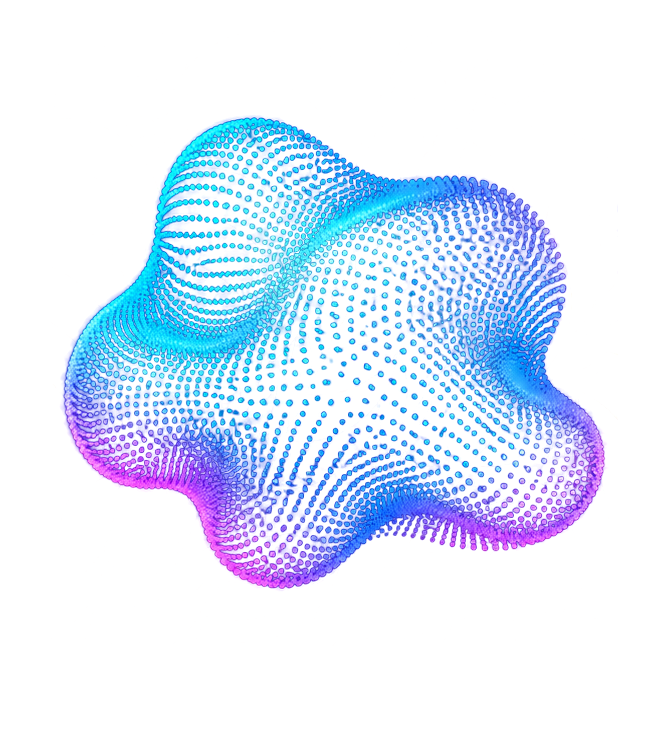
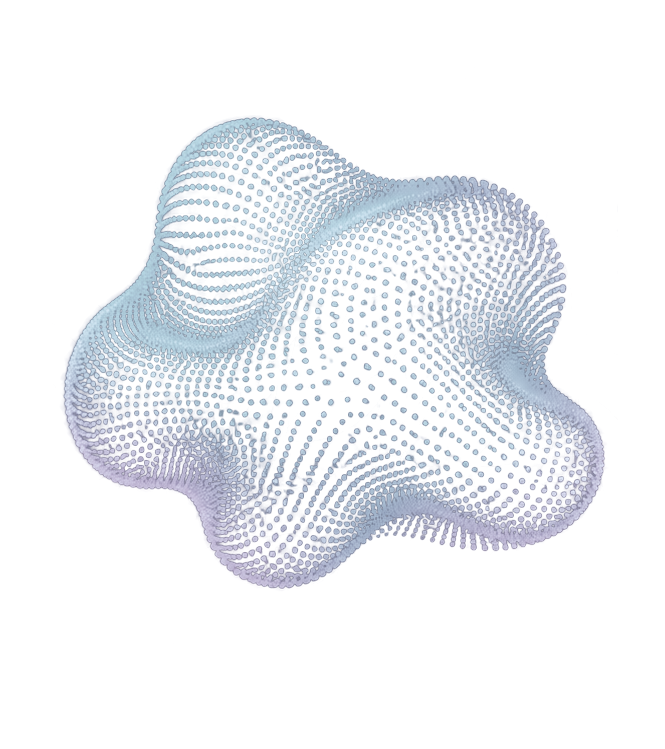
hide text hint after menu open

Changed region(s): [[0.0902, 0.1535, 0.9323, 0.7984]]

diff --git a/public/style.css b/public/style.css
@@ -94,10 +94,11 @@ button:focus-visible { outline: 2px solid var(--cyan); outline-offset: 4px; bord
   transition: opacity 400ms; animation: hint 3.2s ease-in-out infinite; }
 @keyframes hint { 0%, 100% { opacity: 0.5; } 50% { opacity: 0.95; } }
 #home:not([data-layer="0"]) .hint, #home.quiet .hint, #home.learned .hint { opacity: 0; animation: none; pointer-events: none; }
-/* the run buttons belong to home and layer 1; layers 2 and 3 hand the space to the menu */
-.run-buttons { transition: opacity 400ms var(--ease); }
-#home[data-layer="2"] .run-buttons, #home[data-layer="3"] .run-buttons { opacity: 0; pointer-events: none; }
-#home[data-layer="2"] .run-btn, #home[data-layer="3"] .run-btn { pointer-events: none; }
+/* the run buttons belong to the home screen: they hide while the menu is held open
+   (layer 1) and while a sub-menu is up (layers 2 and 3) */
+.run-buttons { transition: opacity 300ms var(--ease); }
+#home:not([data-layer="0"]) .run-buttons { opacity: 0; pointer-events: none; }
+#home:not([data-layer="0"]) .run-btn { pointer-events: none; }
 
 #menu { position: absolute; inset: 0; pointer-events: none; }
 #menu button { pointer-events: none; }
